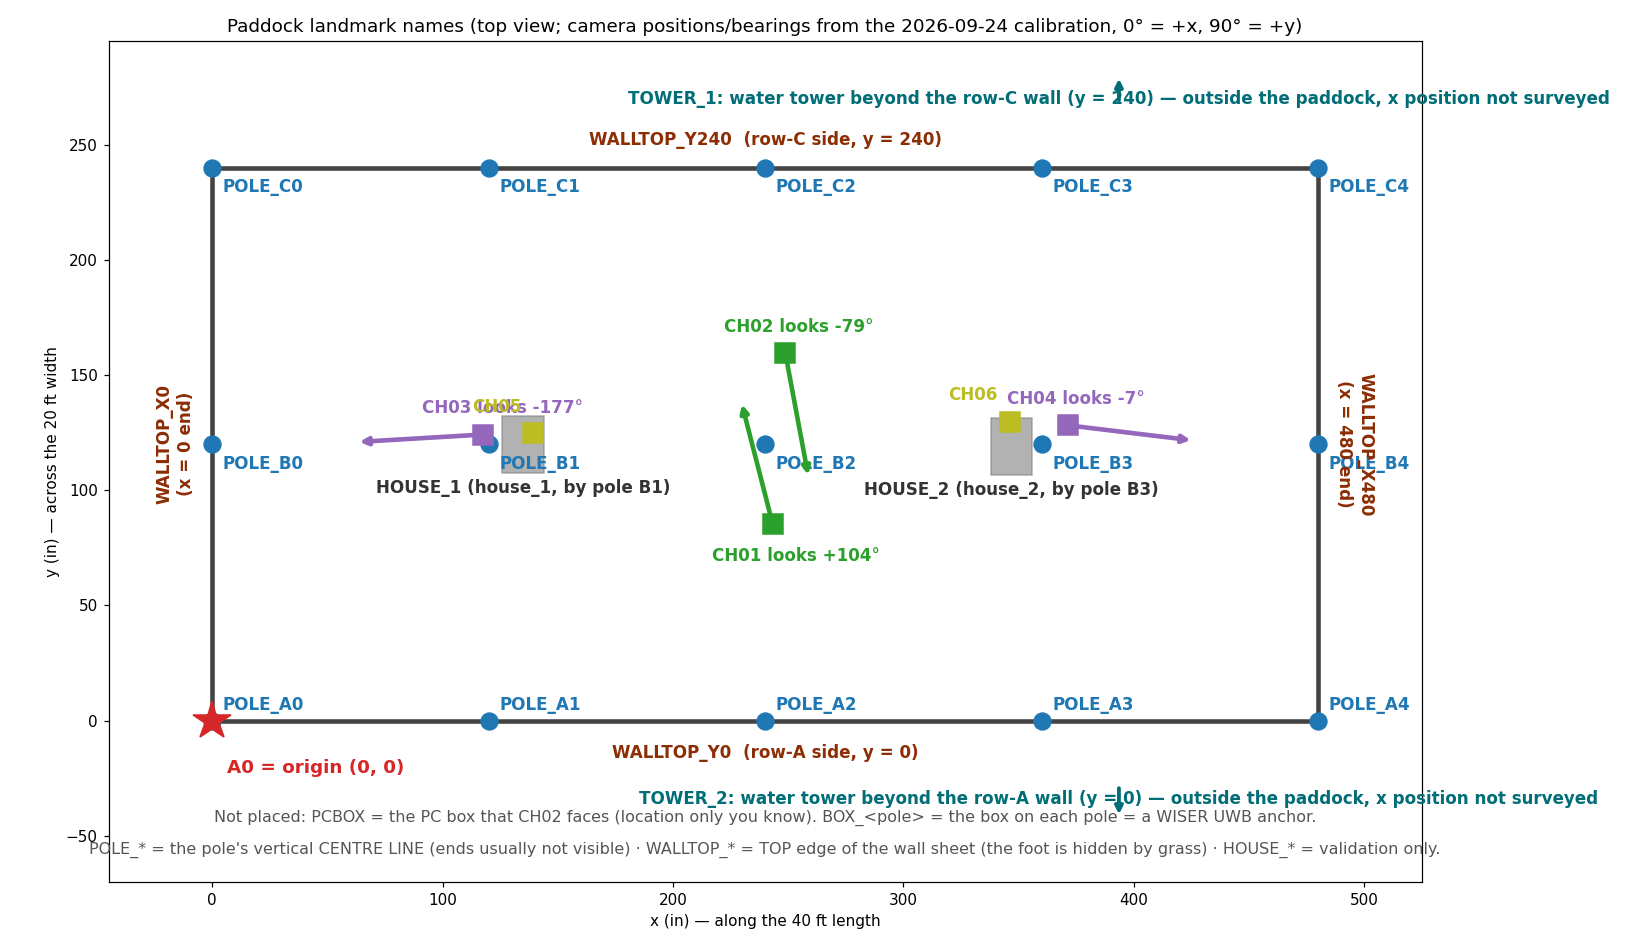
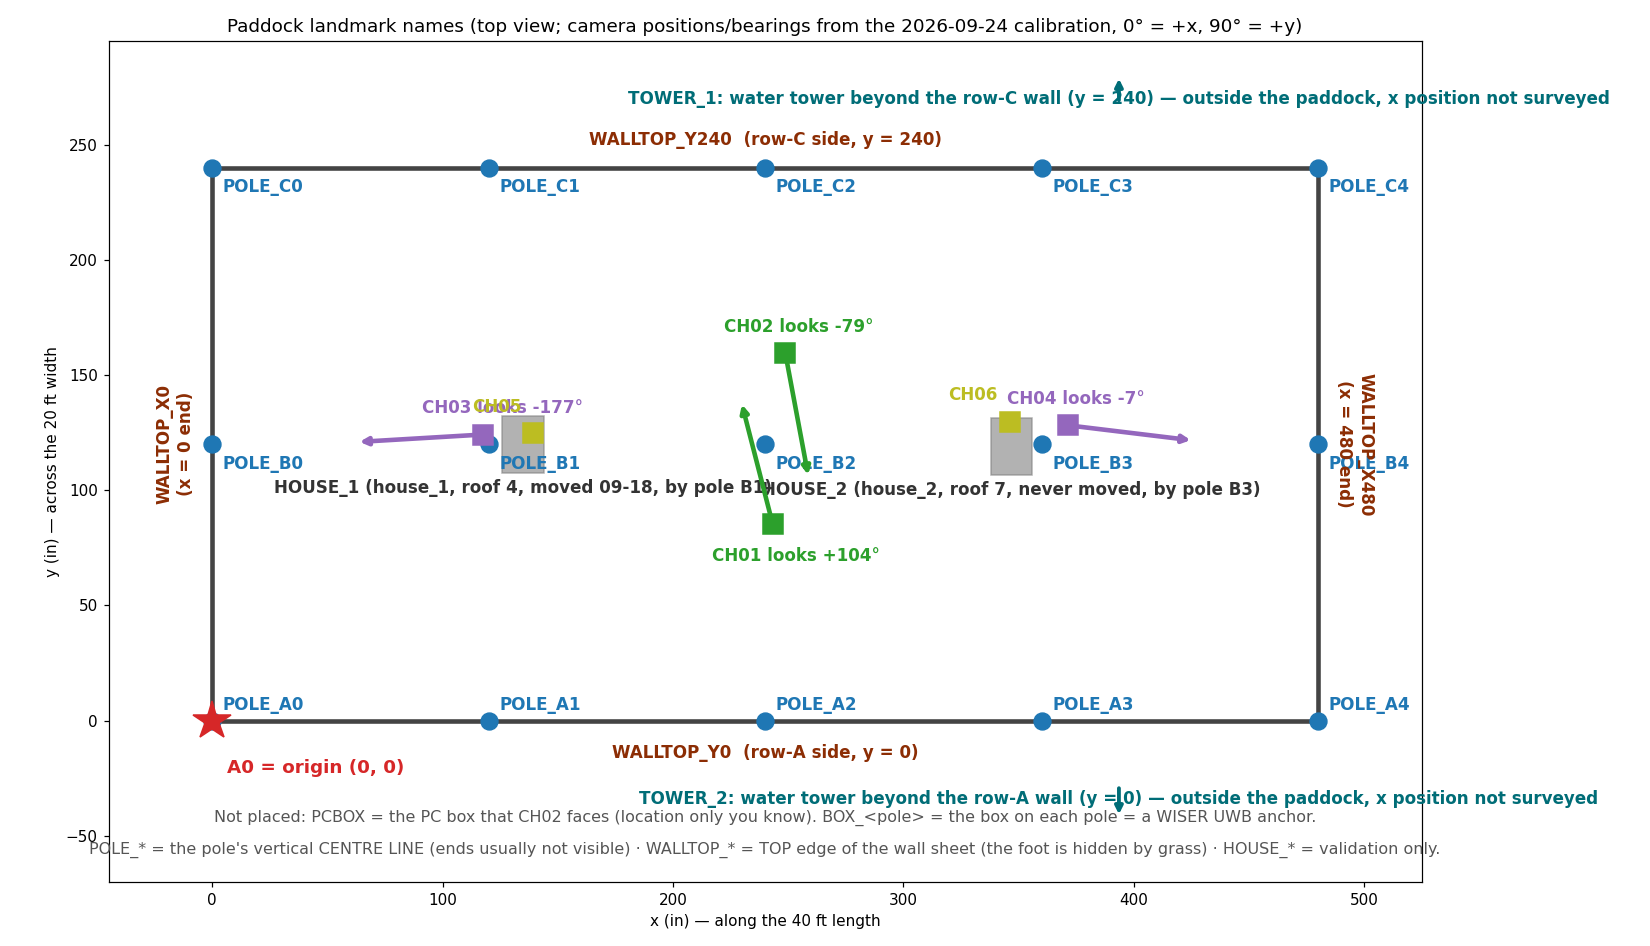
houses: house_1 = roof 4 (moved on 09-18), house_2 = roof 7 (never moved) (user, 2026-10-01)
Correction: house_1 was moved on 09-18 (the calibration day), not 'after 09-17'; neither house moved
while the rats were in the field. Roof numbers 4 / 7 = the calibration sheets' 'house 4' / 'house 7'.
change_log, landmarks README, GUI help, schematic labels and CLAUDE.md (cohort-3 cv_field note:
house_1's post-move position must not be used for cohort 3).

Changed region(s): [[0.1545, 0.4905, 0.7727, 0.5211]]

diff --git a/cv/cv_field/landmark_guides.py b/cv/cv_field/landmark_guides.py
@@ -13,7 +13,8 @@ they are expected to be off (that offset is what the labels will measure) — al
 
 Paddock frame (cv/configs/field_layout.json, calibration): origin = corner pole A0, x along the 40 ft length
 (0–480 in, column 0–4 every 120 in), y across the 20 ft width (row A y = 0, B y = 120, C y = 240 in), z up.
-Houses (user, 2026-09-30: keep the lab names): HOUSE_1 = house_1, next to pole B1, under CH05 (centre ≈ (134.9, 120.0)
+Houses (user, 2026-09-30: keep the lab names): HOUSE_1 = house_1 = roof number 4 (MOVED on 09-18 — the guide shows
+the field_layout position, which may be the post-move one), next to pole B1, under CH05 (centre ≈ (134.9, 120.0)
 in; WISER ROI house_1); HOUSE_2 = house_2, next to pole B3, under CH06 (≈ (347.0, 119.1) in; WISER ROI house_2).
 (Which in-box camera, CH07/CH08, sits in which house is disputed between field_layout.json and the recording repo's
 COLOUR_SAMPLING_LOG_cohort3.md — that does not affect the house names.)
@@ -163,7 +164,8 @@ def schematic(path: Path) -> None:
         pole = min(lay["poles"], key=lambda n: np.hypot(lay["poles"][n][0] / CM_PER_IN - cx, lay["poles"][n][1] / CM_PER_IN - cy))
         ax.add_patch(plt.Rectangle((cx - w / 2, cy - h / 2), w, h, color="#7f7f7f", alpha=0.6))
         n = HOUSE_OF_POLE.get(pole, pole)
-        ax.text(cx, cy - h / 2 - 9, f"HOUSE_{n} (house_{n}, by pole {pole})", ha="center", fontsize=11, color="#333", weight="bold")
+        roof = {"1": "roof 4, moved 09-18", "2": "roof 7, never moved"}.get(n, "")
+        ax.text(cx, cy - h / 2 - 9, f"HOUSE_{n} (house_{n}, {roof}, by pole {pole})", ha="center", fontsize=11, color="#333", weight="bold")
     for cam, (x, y, brg) in cameras_from_fit().items():
         col = "#2ca02c" if cam in ("CH01", "CH02") else "#9467bd" if cam in ("CH03", "CH04") else "#bcbd22"
         ax.plot(x, y, "s", ms=13, color=col, zorder=7)

diff --git a/cv/cv_field/landmark_gui.py b/cv/cv_field/landmark_gui.py
@@ -27,7 +27,8 @@ Landmark kinds (the side panel groups them):
            no closed outline that cannot extend). Each visible edge = one piece (b between edges). A category holds
            up to ~3 edges and they need NOT be parallel (e.g. the two sloped gable edges) — every piece is its own
            straight line, matched to the nearest same-category line in another frame. Validation only. HOUSE_1 =
-           house_1 by pole B1 under CH05, HOUSE_2 = house_2 by pole B3 under CH06. Only edges that are truly parallel
+           house_1 = roof number 4 (by pole B1, under CH05; MOVED on 09-18, so never compare it with 09-18 frames),
+           HOUSE_2 = house_2 = roof number 7 (by pole B3, under CH06; never moved). Only edges that are truly parallel
            in 3-D share a vanishing point (a distortion check for those).
            Two water towers outside the paddock (user, 2026-09-29): TOWER_1 beyond the row-C wall (y = 240 side, the
            top of the schematic), TOWER_2 beyond the row-A wall (y = 0 side, the bottom).

diff --git a/cv/configs/landmarks/2026c/README.md b/cv/configs/landmarks/2026c/README.md
@@ -36,10 +36,10 @@ pixels to the calibration-epoch pixels of the 2026-09-24 calibration (plan:
   (add a midday frame per epoch for CH01/CH02) and skip it where saturated. Whether house landmarks may enter the
   cohort→calibration fit depends on whether the houses were moved between 09-12 and 09-18 (asked); within the cohort
   they are fixed, so they serve the day-to-day correction.
-- **House move (user, 2026-10-01, checked on CH05/CH06):** house1 was MOVED (farther from its pole) after 09-17 and
-  before the 09-18 calibration; house7 never moved; neither moved 08-31→09-17. → the unmoved house's landmarks may
-  enter the cohort→calibration fit; house1's only the within-cohort (08-31→09-17) correction. Mapping of the user's
-  house1/house7 (roof numbers?) to HOUSE_1/HOUSE_2 to be confirmed.
+- **Houses (user, 2026-10-01, checked on CH05/CH06):** `HOUSE_1` = house_1 = **roof number 4** (by pole B1, under CH05);
+  `HOUSE_2` = house_2 = **roof number 7** (by pole B3, under CH06). Neither moved while the rats were in the field;
+  **HOUSE_1 (roof 4) was moved on 09-18** (farther from its pole), HOUSE_2 never. → HOUSE_2 landmarks may enter the
+  cohort→calibration fit; HOUSE_1's only the within-cohort correction (never compared with 09-18 frames).
 - **Only what is visible (user, 2026-10-01):** never draw an estimated or guessed line — an edge hidden by grass
   (e.g. a house base) or by anything else is left out, or only its visible stretches are drawn. A missing line
   costs nothing; a guessed one is a false measurement. (Same reason the wall FOOT is not used.)

diff --git a/change_log/2026-09-28-cohort3-camera-stability.md b/change_log/2026-09-28-cohort3-camera-stability.md
@@ -73,8 +73,10 @@ flipbooks; to be recorded as stable periods per camera for the paddock-mapping c
 
 **Resolved (user, 2026-10-01, from the CH05/CH06 pairs and flipbooks — runs `cv_field_camera_events_20261001_1243`,
 `cv_field_camera_review_20261001_1250`, config `cv/configs/cohort3_house_check_events.json`):** **house1 was moved —
-it now stands farther from its pole; house7 never moved; the houses did not move from 08-31 to 09-17.** So house1 moved
-after 09-17 and before the 09-18 calibration (the 26-h unrecorded window). The CH01/CH02 "distortion" (a house's size
+it now stands farther from its pole; house7 never moved; the houses did not move while the rats were in the field.**
+Names (user): house1 = HOUSE_1 = lab `house_1` = **roof number 4** (by pole B1, under CH05); house2 = HOUSE_2 = lab
+`house_2` = **roof number 7** (by pole B3, under CH06) — the 09-18/19 calibration sheets' "house 4" / "house 7".
+**house1 (roof 4) was moved on 09-18**, the calibration day, so the calibration frames show it in its new place. The CH01/CH02 "distortion" (a house's size
 differs) is most likely this move, not a lens/stitching change → CH01/CH02 may need only a small displacement correction.
 To be confirmed with the rigid landmarks (poles, pole boxes = WISER anchors, wall tops, towers): if one small rigid
 correction aligns them between cohort and 09-18 with small residuals, there is no distortion. House landmarks: the

diff --git a/CLAUDE.md b/CLAUDE.md
@@ -273,7 +273,12 @@ test night), frames stored locally (`cv/dataset/rat_pano*`), labelled locally, s
 BioHPC (`cv/cv_field/REMOTE_COMPUTE.md`). Plan: `implementation_plan/2026-09-28-cohort3-ch0102-yolo-pilot.md`. **Camera stability is judged by a person**:
 `cv/cv_field/camera_review.py` lays out daily frames with the 09-18 wall-foot lines for review (an automatic ECC check
 failed — grass, rain, IR/colour changes); weather-driven moves are reported manually. **The agent does not judge
-images** and confirms every test plan with the user first.
+images** and confirms every test plan with the user first. **Houses (user, checked on CH05/CH06, 2026-10-01):**
+house_1 = `HOUSE_1` = roof number **4** (by pole B1, under CH05) was **moved on 09-18** (calibration day, farther from
+its pole); house_2 = `HOUSE_2` = roof number **7** (by pole B3, under CH06) never moved; neither moved while the rats were
+in the field. So house_1's position from 09-18 imagery or the calibration (e.g. `field_layout.json` shelter "left")
+does not hold for cohort 3, and the CH01/CH02 difference vs the calibration is most likely this move, not distortion
+(to be confirmed with rigid landmarks — `cv/configs/landmarks/2026c/README.md`).
 
 ### `thermal/` — cams `108_thermal` / `109_thermal` (1 fps, 1280×960 HEVC, white-hot, auto-gain); no results direction
 
